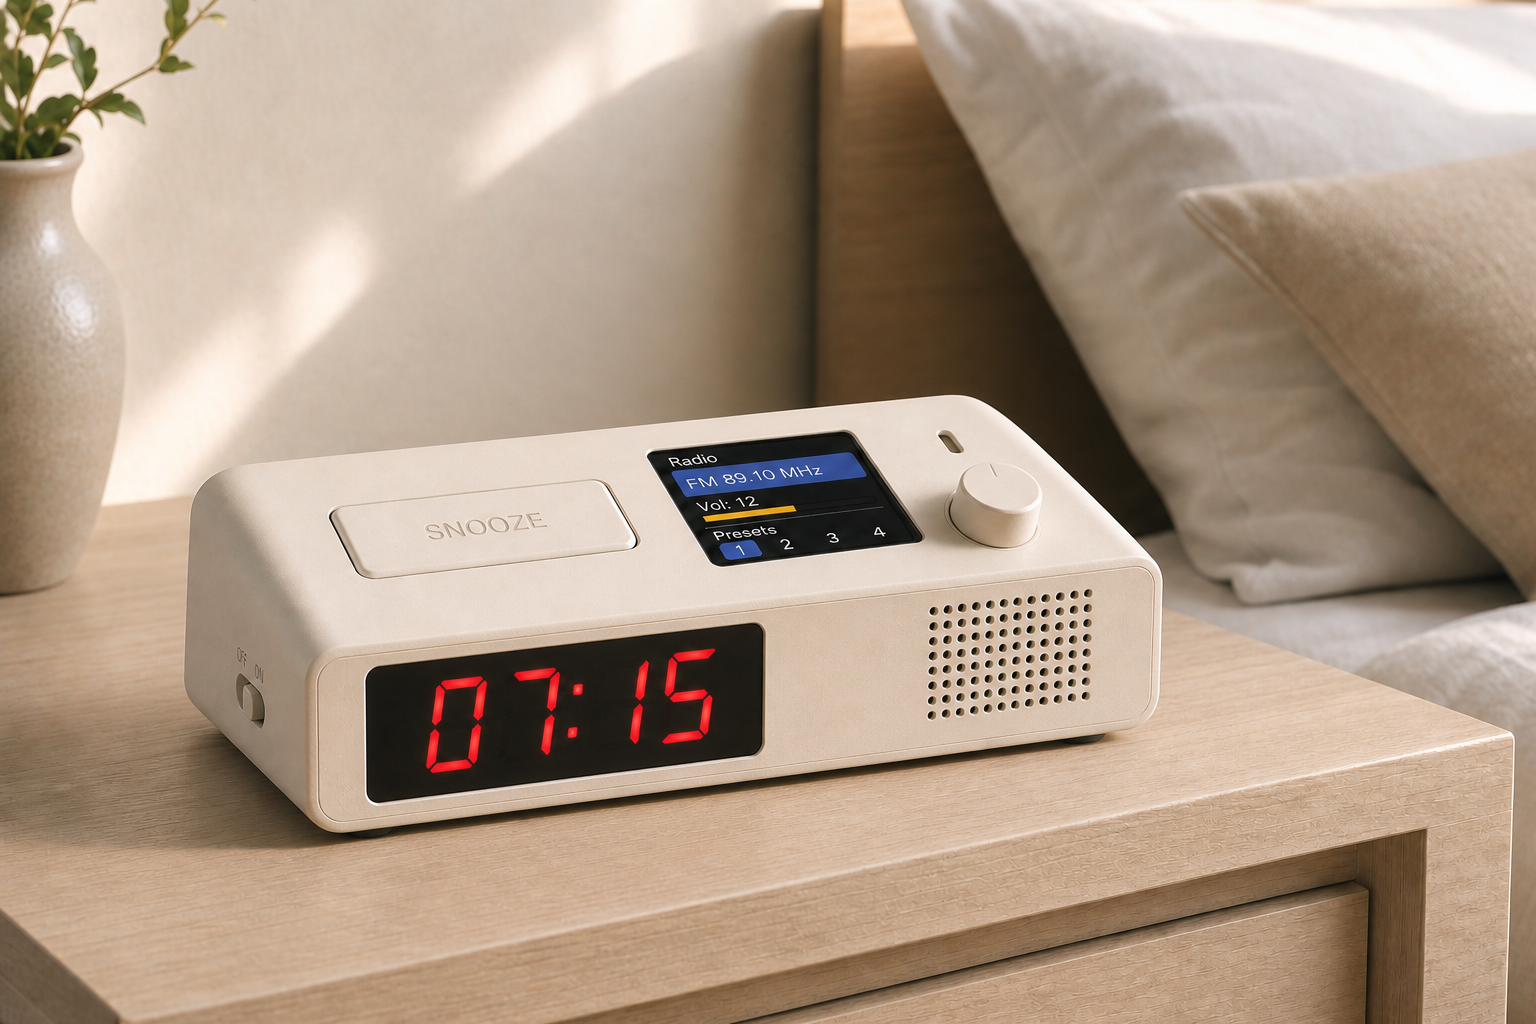
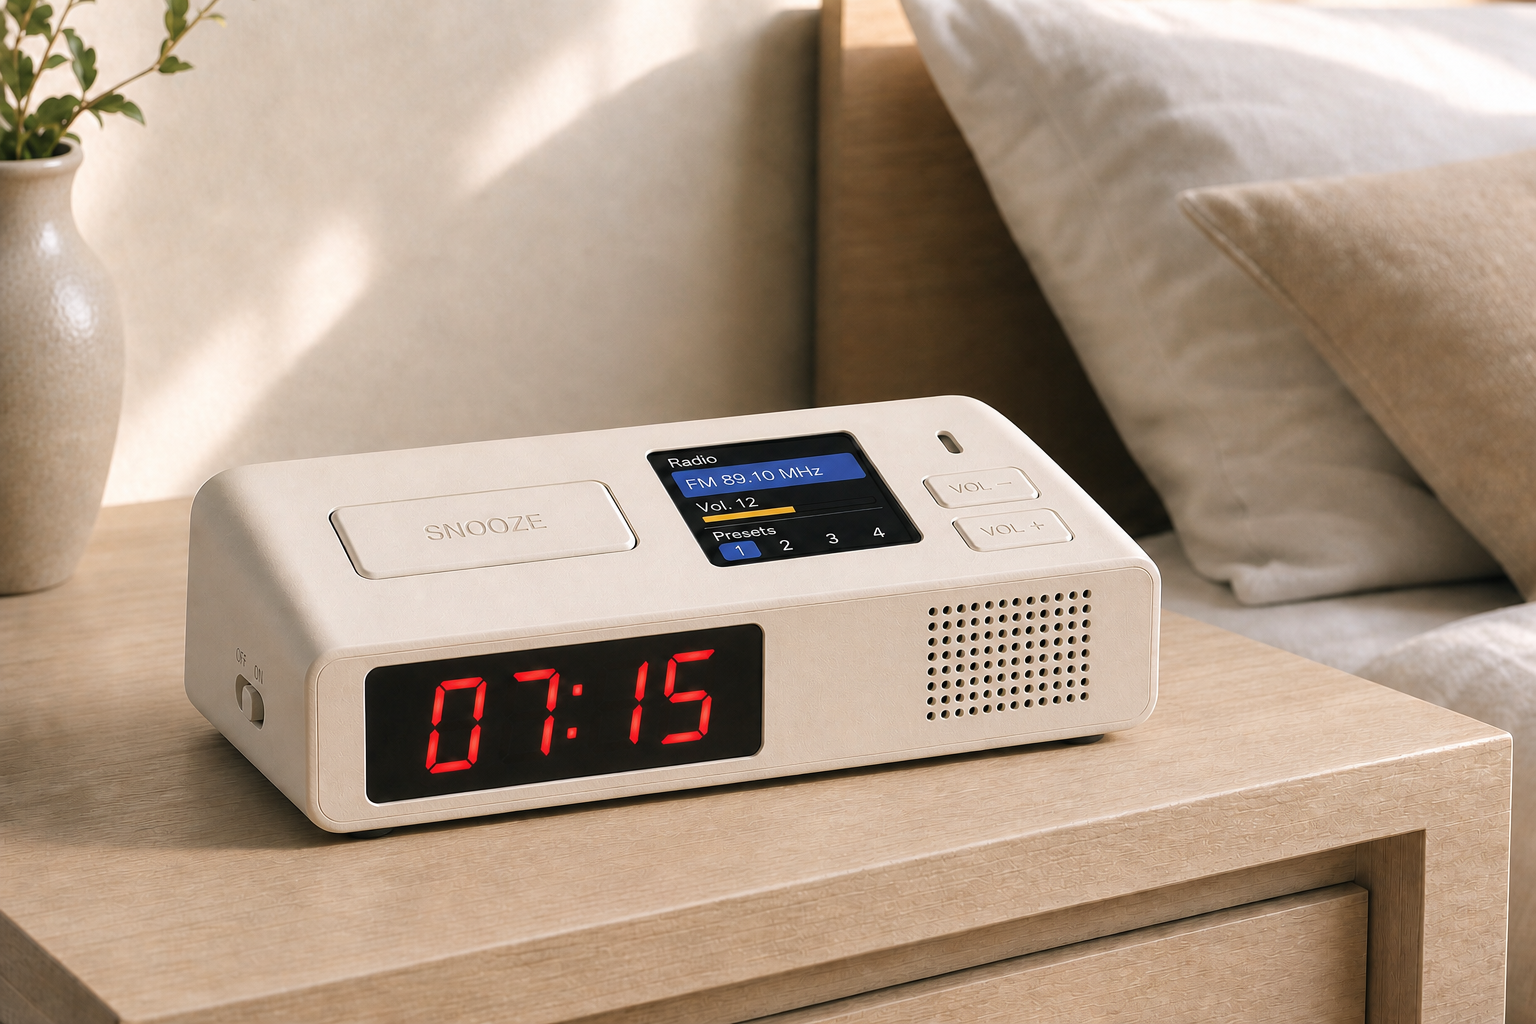
Update docs and hero image for the volume button change
README (BOM, Controls, Roadmap), firmware.md, and both wiring diagram
files (aria-label, wire routing label, component box, notes) all
described a rotary encoder that no longer exists in the design --
updated throughout to two low-profile Vol+/Vol- buttons.

Swaps in the user's updated hero image render, which already shows
the new flush VOL-/VOL+ buttons instead of the knob.

diff --git a/docs/wiring-diagram.html b/docs/wiring-diagram.html
@@ -220,7 +220,7 @@
 
   <figure>
     <div class="scroll">
-      <svg viewBox="0 0 1400 780" role="img" aria-label="Wiring diagram of the ESP32-S3 Reverse TFT Feather at the center, with the DS3231 RTC, VEML7700 light sensor, 7-segment display, and SI4730 radio module daisy-chained on one I2C STEMMA QT bus above it; an FM wire antenna feeding the radio module; a CR1220 coin cell seated in the RTC's own holder; an analog audio line running directly from the radio module down to the STEMMA amp and on to the speaker, bypassing the Feather entirely; a lithium battery through an inline SPDT switch on the positive lead only into its left side; and a panel snooze button, rotary encoder, and piezo buzzer wired directly to spare GPIO pins below it." xmlns="http://www.w3.org/2000/svg">
+      <svg viewBox="0 0 1400 780" role="img" aria-label="Wiring diagram of the ESP32-S3 Reverse TFT Feather at the center, with the DS3231 RTC, VEML7700 light sensor, 7-segment display, and SI4730 radio module daisy-chained on one I2C STEMMA QT bus above it; an FM wire antenna feeding the radio module; a CR1220 coin cell seated in the RTC's own holder; an analog audio line running directly from the radio module down to the STEMMA amp and on to the speaker, bypassing the Feather entirely; a lithium battery through an inline SPDT switch on the positive lead only into its left side; and a panel snooze button, two low-profile volume buttons, and a piezo buzzer wired directly to spare GPIO pins below it." xmlns="http://www.w3.org/2000/svg">
 
         <!-- drawing frame -->
         <rect x="20" y="20" width="1360" height="740" fill="none" stroke="var(--line)" stroke-width="1"/>
@@ -270,14 +270,14 @@
         <text x="1000" y="308" text-anchor="end" font-family="IBM Plex Mono, monospace" font-size="12" fill="var(--accent-audio)">AUDIO OUT (analog, radio module)</text>
         <text x="1020" y="428" font-family="IBM Plex Mono, monospace" font-size="11" fill="var(--accent-audio)">SPK +/&ndash;</text>
 
-        <!-- GPIO: Feather -> snooze button, Feather -> rotary encoder, Feather -> piezo buzzer -->
+        <!-- GPIO: Feather -> snooze button, Feather -> volume buttons, Feather -> piezo buzzer -->
         <g fill="none" stroke="var(--accent-gpio)" stroke-width="2.5">
           <path d="M560,510 560,590 515,590 515,630"/>
           <path d="M700,510 700,590 755,590 755,630"/>
           <path d="M750,480 970,480 970,630"/>
         </g>
         <text x="410" y="605" font-family="IBM Plex Mono, monospace" font-size="12" fill="var(--accent-gpio)">GPIO IN + GND</text>
-        <text x="765" y="605" font-family="IBM Plex Mono, monospace" font-size="12" fill="var(--accent-gpio)">GPIO &times;3 (A / B / SW)</text>
+        <text x="765" y="605" font-family="IBM Plex Mono, monospace" font-size="12" fill="var(--accent-gpio)">GPIO &times;2 (Vol+ / Vol-)</text>
         <text x="760" y="468" font-family="IBM Plex Mono, monospace" font-size="12" fill="var(--accent-gpio)">GPIO OUT + GND</text>
 
         <!-- connection dots -->
@@ -369,8 +369,8 @@
           <text x="515" y="690" text-anchor="middle" font-family="IBM Plex Mono, monospace" font-size="12" fill="var(--ink-dim)">panel-mount tactile</text>
 
           <rect x="660" y="630" width="190" height="90" fill="var(--surface)" stroke="var(--ink)" stroke-width="1.5"/>
-          <text x="755" y="666" text-anchor="middle" font-size="15" font-weight="600" fill="var(--ink)">Rotary Encoder</text>
-          <text x="755" y="690" text-anchor="middle" font-family="IBM Plex Mono, monospace" font-size="12" fill="var(--ink-dim)">panel-mount, volume</text>
+          <text x="755" y="666" text-anchor="middle" font-size="15" font-weight="600" fill="var(--ink)">Volume Buttons</text>
+          <text x="755" y="690" text-anchor="middle" font-family="IBM Plex Mono, monospace" font-size="12" fill="var(--ink-dim)">panel-mount, Vol+ / Vol-</text>
 
           <rect x="890" y="630" width="160" height="90" fill="var(--surface)" stroke="var(--ink)" stroke-width="1.5"/>
           <text x="970" y="666" text-anchor="middle" font-size="15" font-weight="600" fill="var(--ink)">Piezo Buzzer</text>
@@ -399,7 +399,7 @@
       <li>The radio-to-amp audio run is drawn as a single generic line. The SI4730 module's audio-out pins are analog line-level and feed the amp's analog input directly &mdash; confirm the module's actual audio-out pin labels against its datasheet.</li>
       <li>Speaker leads are soldered directly to the amp's output; the BOM has no connector for that hop.</li>
       <li>The two <code>JST PH 3-pin</code> cables and one of the three <code>JST SH 4-pin</code> cables aren't yet assigned to a specific hop above &mdash; likely candidates are the amp's audio input and power breakout. Update this diagram once wired up.</li>
-      <li>Panel button, encoder, and piezo buzzer wiring assumes spare GPIO with internal pull-ups; confirm against the Feather's pinout before final assembly. The BOM's piezo entry is still a placeholder (no part number picked yet) &mdash; a small passive piezo driven by the ESP32's <code>tone()</code> is the assumption.</li>
+      <li>Panel buttons and piezo buzzer wiring assumes spare GPIO with internal pull-ups; confirm against the Feather's pinout before final assembly. Volume is two low-profile momentary buttons (Vol+/Vol-) rather than a rotary encoder, so nothing protrudes from the enclosure surface but the snooze button. The BOM's piezo and volume-button entries are still placeholders (no part numbers picked yet) &mdash; a small passive piezo driven by the ESP32's <code>tone()</code> is the assumption for the buzzer.</li>
       <li>The <b>CR1220 coin cell</b> seats directly in the DS3231 breakout's onboard holder &mdash; it backs up the RTC when main power is off and needs no separate wiring.</li>
       <li>The <b>FM wire antenna</b> connects straight to the SI4730 module's antenna pad; length and routing affect reception, so keep it away from the speaker and switching power lines in the enclosure layout.</li>
     </ul>

diff --git a/README.md b/README.md
@@ -57,7 +57,7 @@ Off-the-shelf radio alarm clocks are either dumb (no scheduling beyond one or tw
 | 1 | Speaker 4 Ohm, Top Port | 3351 | 3351-ND | FM/AM radio audio output |
 | 1 | SI4730-D60-GMR AM/FM Receiver Module (PL102BA-S V2.1, DSP Digital Tuner) | SI4730-D60-GMR | — | AM/FM radio tuner |
 | 1 | Panel-mount tactile button | TBD | TBD | Dedicated front-panel snooze button, separate from the Feather's onboard buttons |
-| 1 | Panel-mount rotary encoder | TBD | TBD | Physical volume control |
+| 2 | Panel-mount tactile button (low-profile) | TBD | TBD | Volume up / volume down — a rotary encoder's knob was the only thing protruding from the enclosure, so this is two flush buttons instead |
 | 1 | Small piezo buzzer (passive, GPIO-driven) | TBD | TBD | Alarm tone, independent of the radio/speaker signal path |
 | 1 | Lithium battery | TBD | TBD | Power source |
 | 1 | Inline SPDT slide switch | TBD | TBD | Hard on/off, wired inline on the battery line |
@@ -66,7 +66,7 @@ Off-the-shelf radio alarm clocks are either dumb (no scheduling beyond one or tw
 
 ## Wiring
 
-![Wiring diagram: RTC, light sensor, 7-segment display, and FM radio module daisy-chained on one I2C bus off the ESP32-S3 Feather; battery through a slide switch; audio running straight from the radio module to the amp and speaker; snooze button, rotary encoder, and piezo buzzer on direct GPIO](docs/wiring-diagram.svg)
+![Wiring diagram: RTC, light sensor, 7-segment display, and FM radio module daisy-chained on one I2C bus off the ESP32-S3 Feather; battery through a slide switch; audio running straight from the radio module to the amp and speaker; snooze button, volume buttons, and piezo buzzer on direct GPIO](docs/wiring-diagram.svg)
 
 See [`docs/wiring-diagram.html`](docs/wiring-diagram.html) for wiring notes/assumptions (open it locally or via [an HTML preview service](https://htmlpreview.github.io/?https://github.com/duceppemo/ESP32_radio_alarm_clock/blob/master/docs/wiring-diagram.html) — GitHub shows `.html` files as source, not rendered, when opened directly).
 
@@ -92,13 +92,13 @@ It builds clean and its hardware-independent logic (alarm scheduling, radio wrap
 ## Controls
 
 - **Snooze**: dedicated panel-mount tactile button, front-mounted for easy reach, wired separately from the Feather's onboard top-mounted menu buttons.
-- **Volume**: small panel-mount rotary encoder for physical volume control.
+- **Volume**: two low-profile panel-mount tactile buttons (Vol+/Vol−) — flush with the enclosure, no protruding knob.
 - **Power**: inline SPDT slide switch on the battery line for a hard on/off.
 - **Menu**: more advanced settings/controls are handled via an on-screen menu on the Feather's built-in TFT, navigated using the Feather's onboard buttons.
 
 ## Roadmap
 
-- **Physical snooze/volume input**: the dedicated snooze button and rotary encoder have pins reserved but aren't polled by firmware yet.
+- **Physical snooze input**: the dedicated snooze button has a pin reserved but isn't polled by firmware yet. (Volume is done — see [Controls](#controls).)
 - **Auto-dimming**: use the VEML7700 ambient light reading to dim the 7-segment and TFT displays automatically.
 
 ## Enclosure

diff --git a/docs/firmware.md b/docs/firmware.md
@@ -46,7 +46,7 @@ The `[env:native]` build only compiles the `src/*.cpp` files listed in `build_sr
 
 | File | Responsibility |
 |---|---|
-| [`src/Config.h`](../src/Config.h) | Pin assignments and shared tunables. All non-bus pins (radio reset, snooze button, encoder, buzzer) are placeholders pending final wiring — see [`wiring-diagram.html`](wiring-diagram.html). |
+| [`src/Config.h`](../src/Config.h) | Pin assignments and shared tunables. All non-bus pins (radio reset, snooze/volume buttons, buzzer) are placeholders pending final wiring — see [`wiring-diagram.html`](wiring-diagram.html). |
 | [`src/AlarmClock.*`](../src/AlarmClock.h) | Up to 3 schedules and an idle/ringing/snoozed state machine, each with a `WakeSource` (radio / beep / chime). Persisted to NVS via `Preferences`. Only needs a `DateTime` per tick, so it's hardware-independent. |
 | [`src/RadioTuner.*`](../src/RadioTuner.h) | Wraps the [PU2CLR SI4735](https://github.com/pu2clr/SI4735) driver for the onboard SI4730 FM tuner: tune/seek/volume/mute, 6 presets, a sleep timer, all persisted to NVS (except the sunrise-ramp's intermediate volume steps, which use a transient setter that skips the flash write). This is control only, over I2C — see the audio-path note below. |
 | [`src/AlarmSound.*`](../src/AlarmSound.h) | Drives a piezo buzzer on `Pins::Buzzer` via Arduino's `tone()`/`noTone()`, stepping through a small pattern table: an urgent 1.8/2.2kHz alternating beep, or a gentler ascending A-major-triad chime (A5→C♯6→E6). Used both as a selectable wake sound and as the dead-air fallback below. Entirely unrelated to the radio's audio path. |
@@ -88,7 +88,7 @@ Each alarm picks a `WakeSource`: **Radio** ramps `RadioTuner`'s volume from `Ala
 
 ## Known gaps
 
-- Physical snooze button, rotary encoder volume control, and VEML7700-driven display auto-dimming have pins reserved in `Config.h` but no polling/handling code yet.
+- The physical snooze button and VEML7700-driven display auto-dimming have pins reserved in `Config.h` but no polling/handling code yet. (Volume is handled — `Pins::VolumeUp`/`VolumeDown`, polled in `main.cpp`'s loop().)
 - The `Config.h` pin assignments (including the buzzer) and the SI4735 reset-pin timing are unverified against real wiring.
 - The dead-air RSSI threshold (`AlarmConfig::DeadAirRssiThreshold`) is a guess and will need retuning once there's a real signal to measure.
 - The buzzer tone frequencies/pattern (`AlarmSound.cpp`) are a best guess at what sounds good on a typical passive piezo — worth listening to and retuning once hardware exists.
